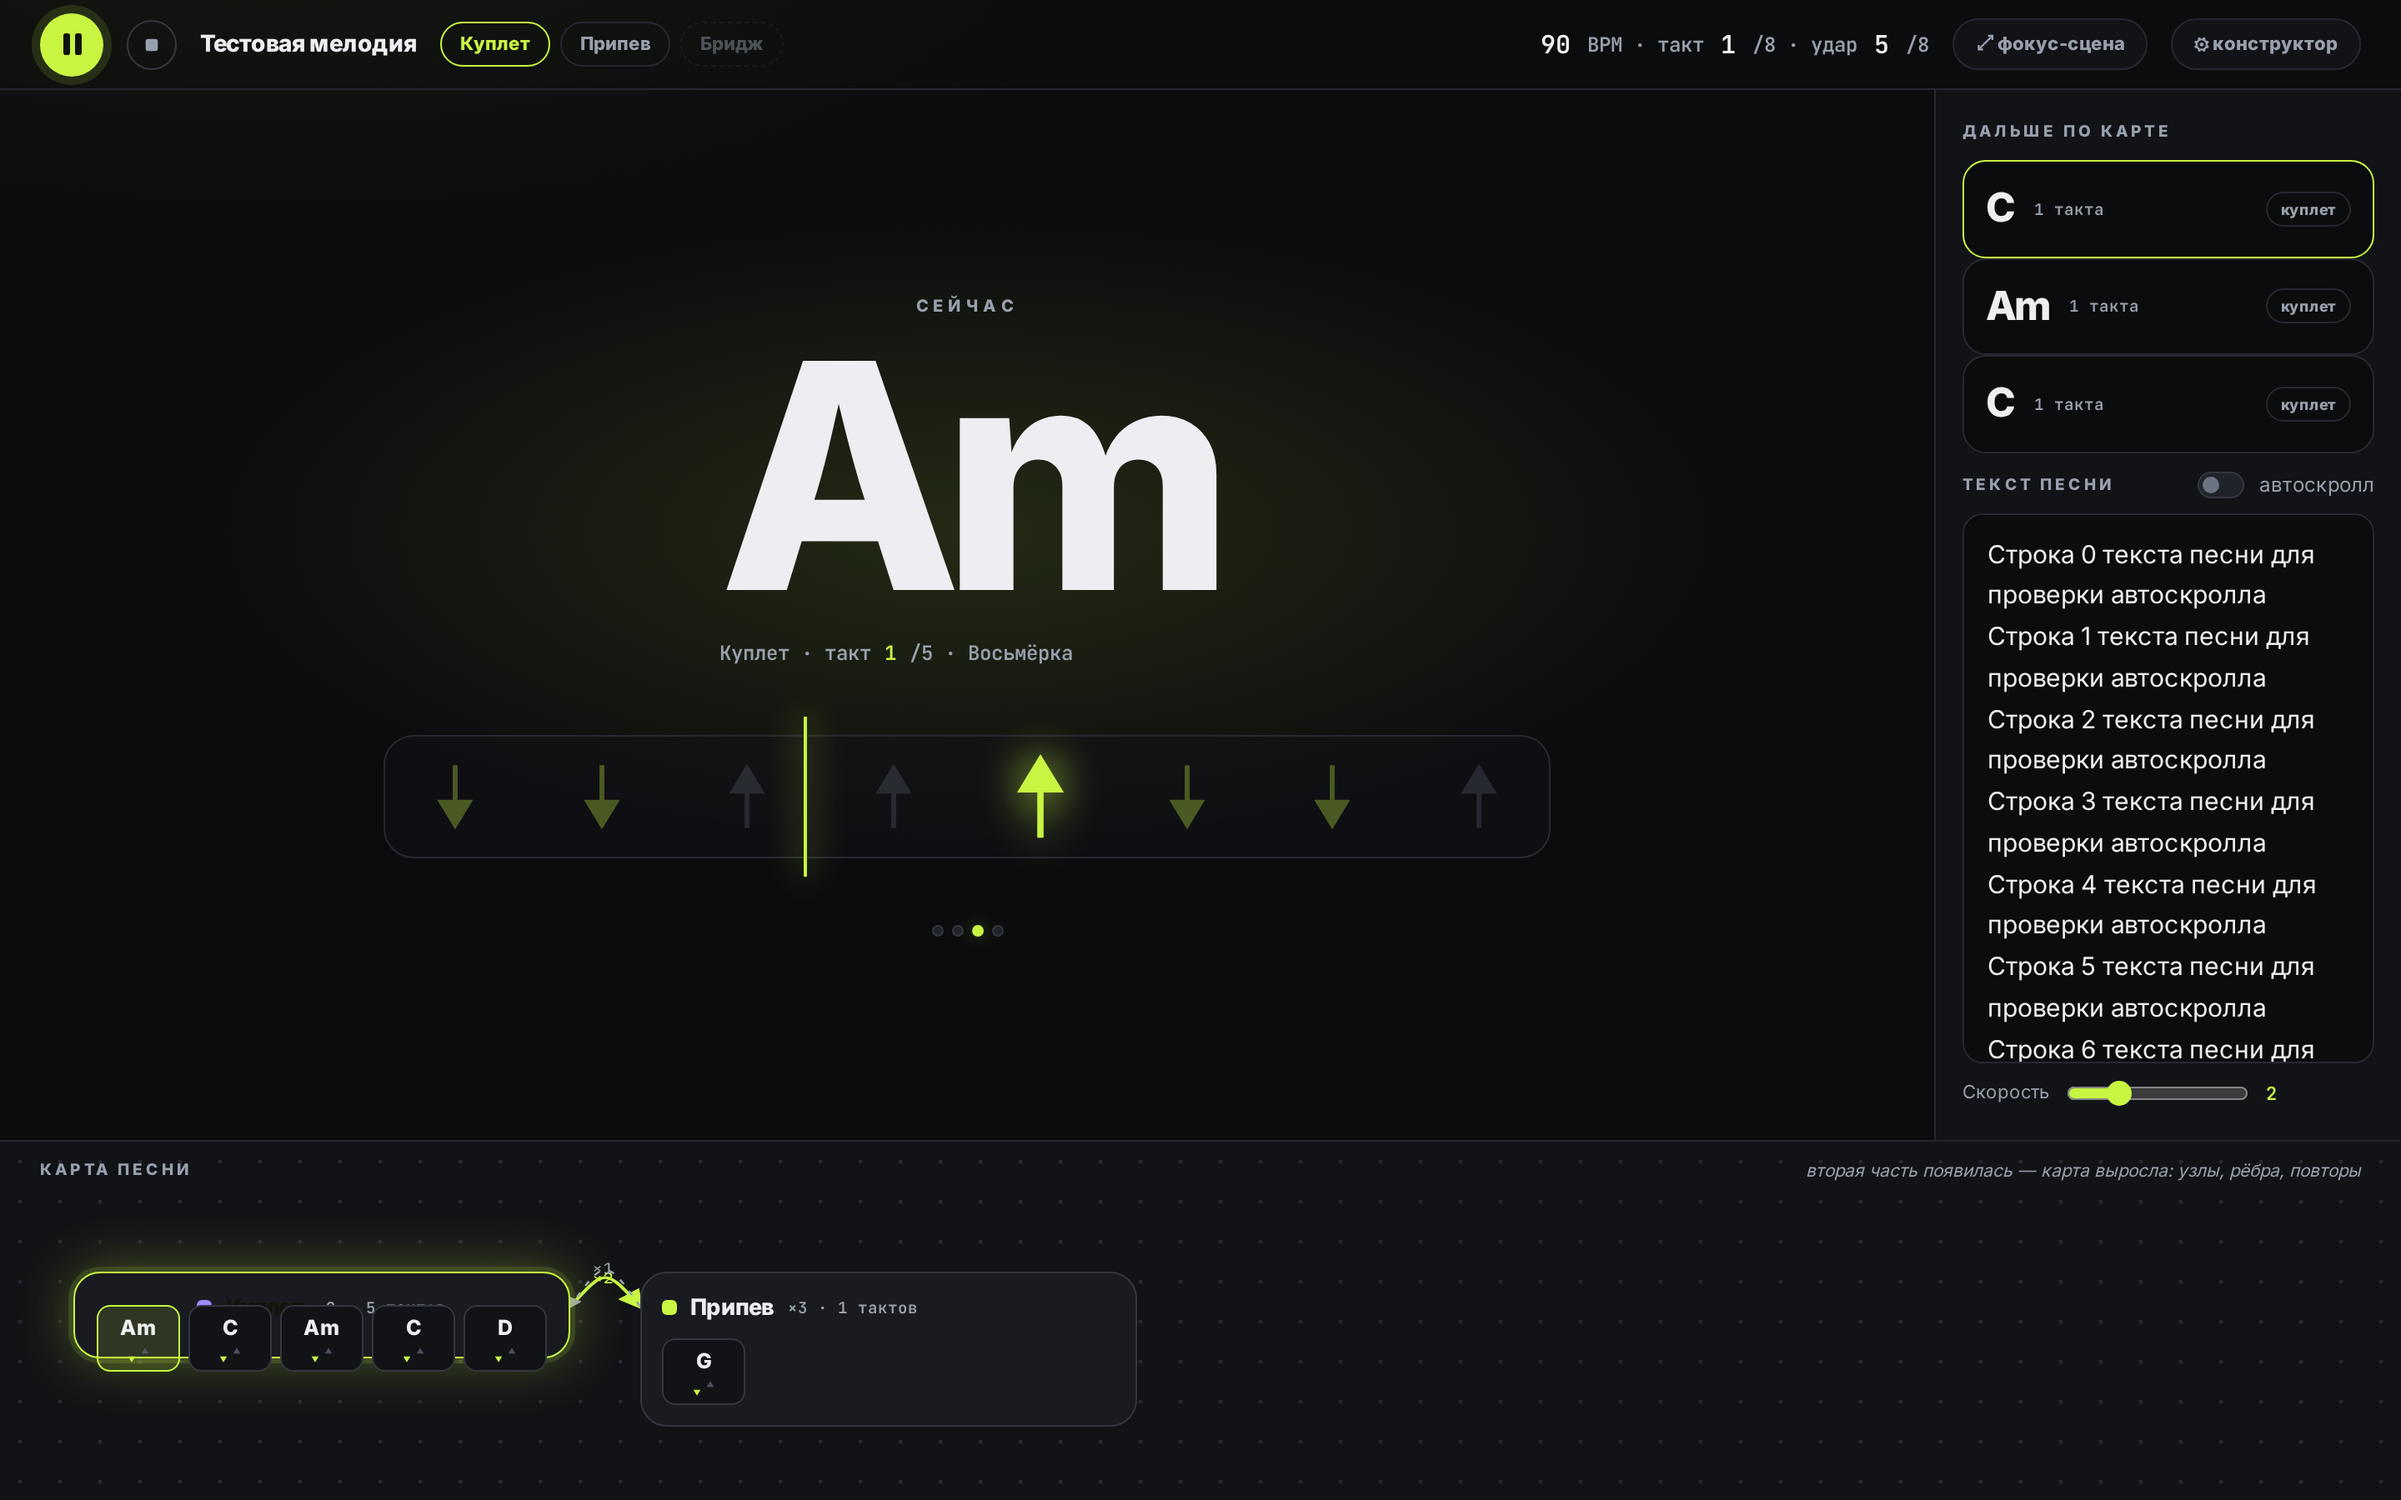
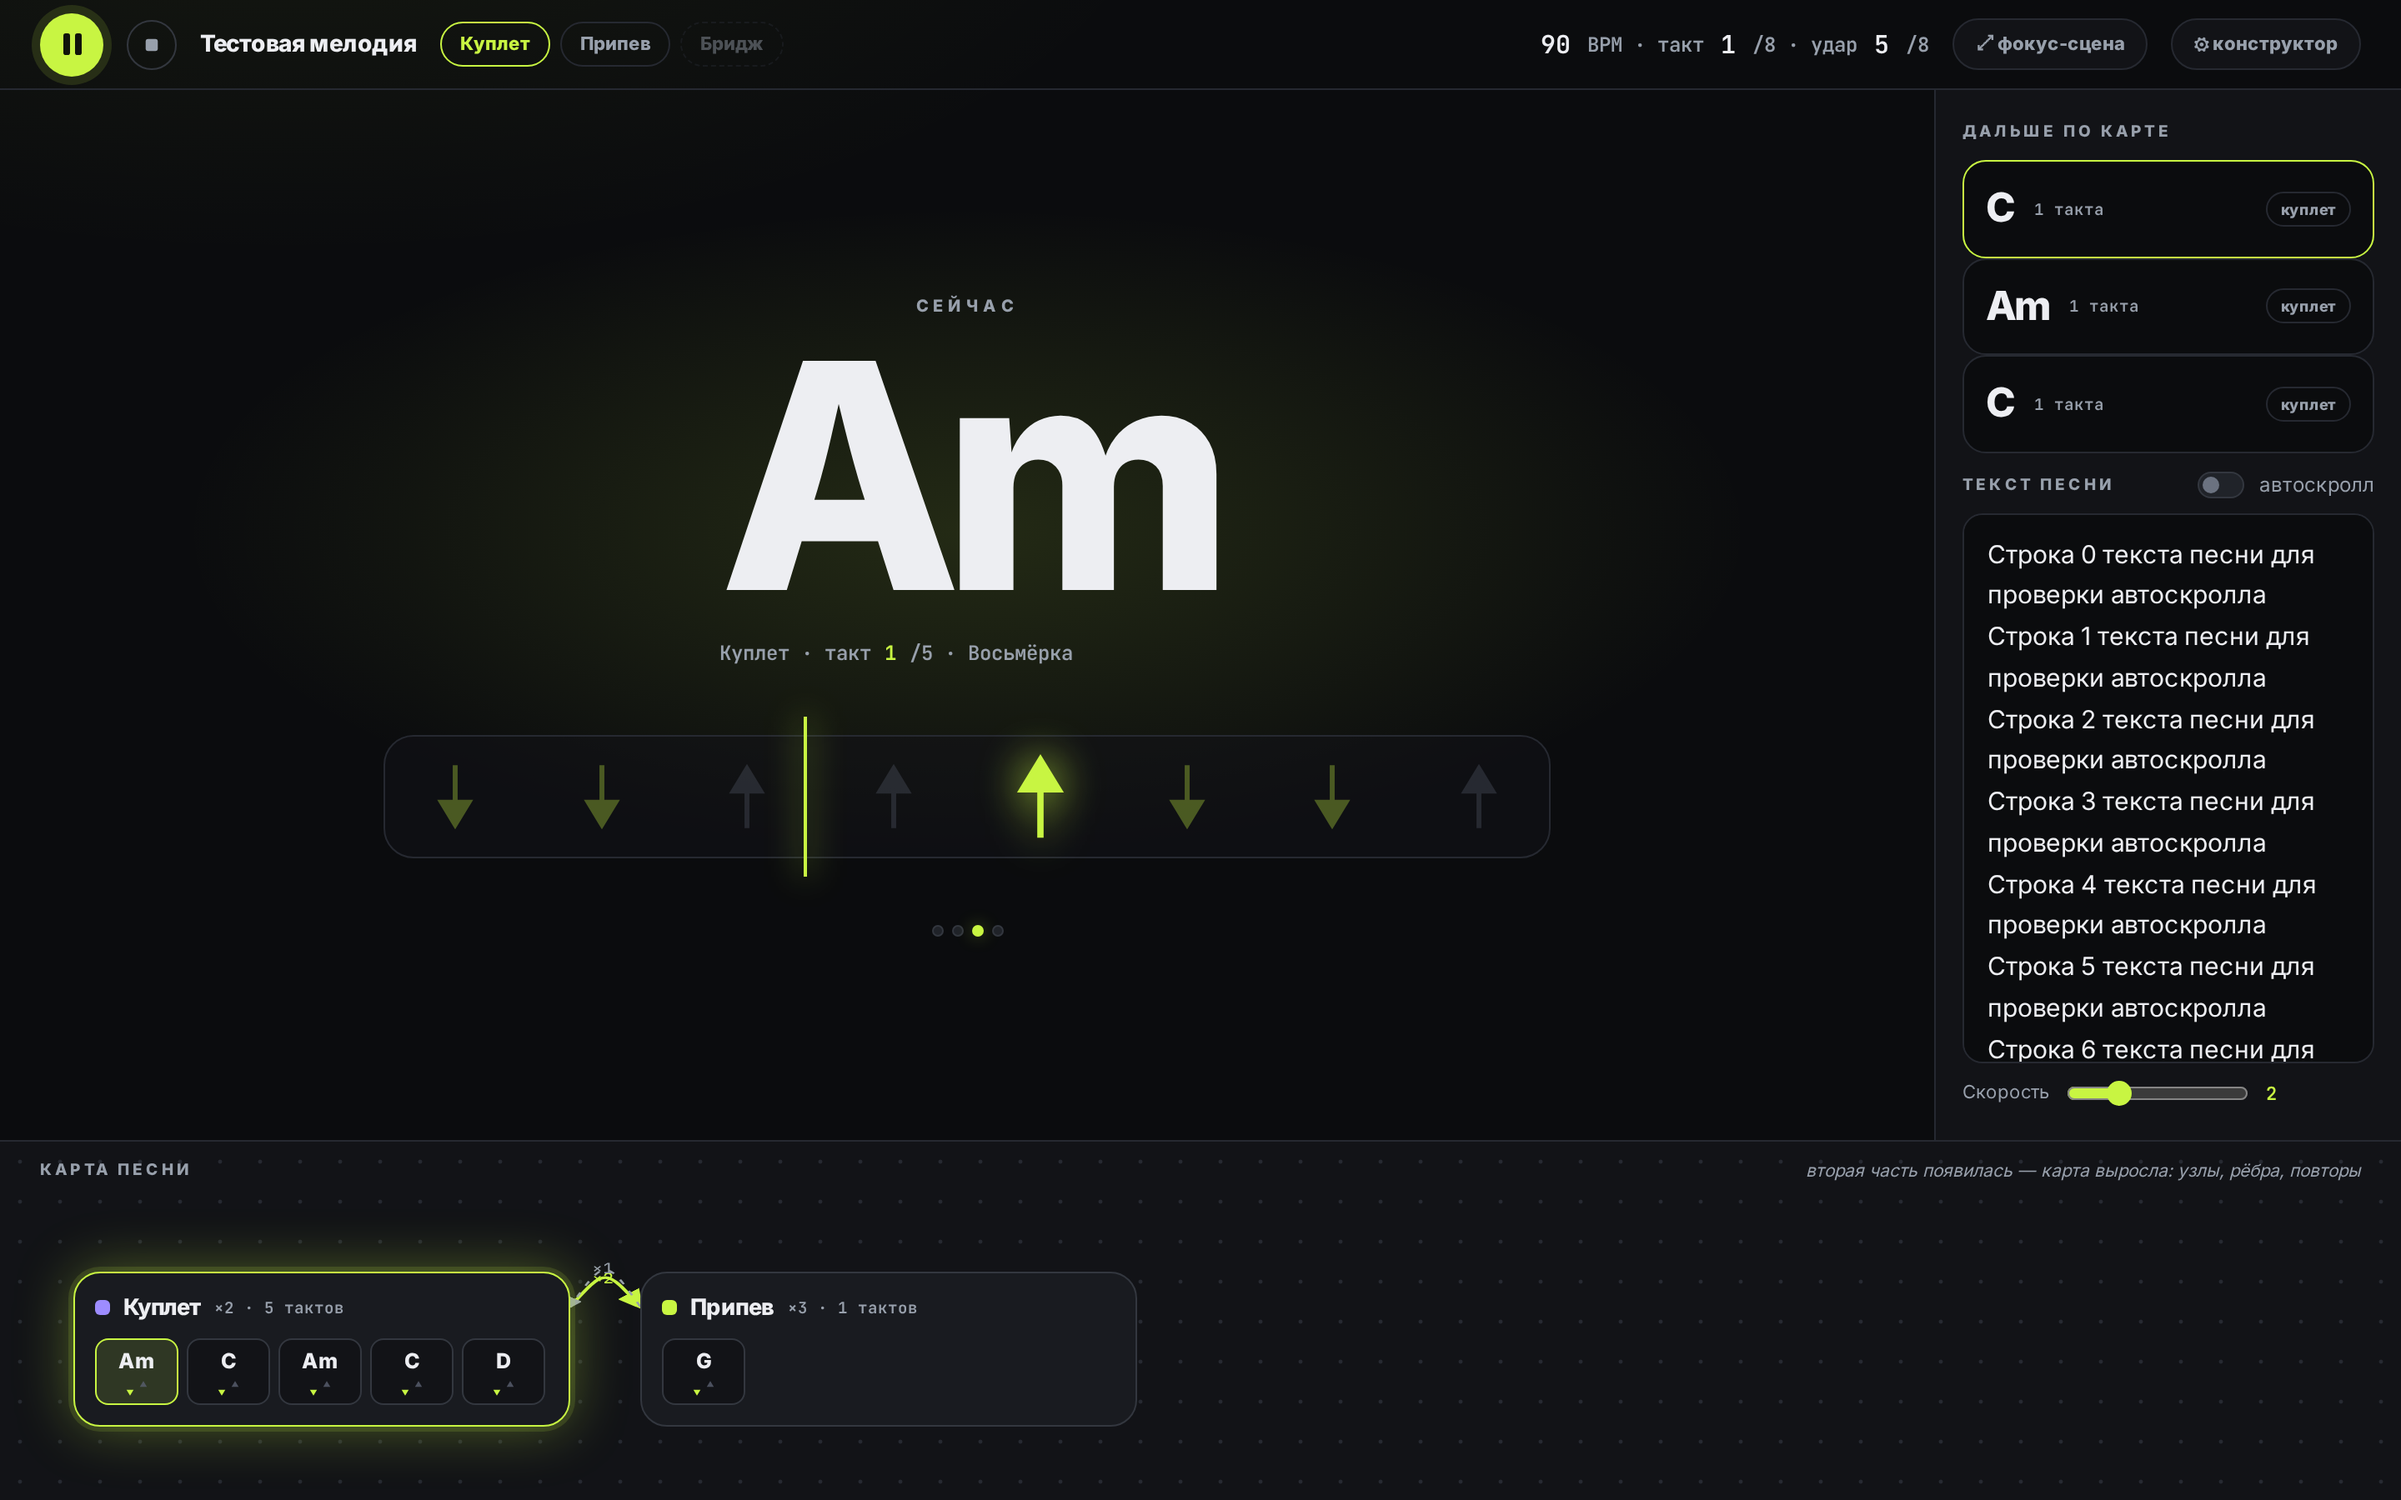
fix(stage): коллизия классов .play/.gnode.play ломала высоту узла карты — текст прятался за тактами; переименовано в .playing, узел flex-column; e2e 34/34

Changed region(s): [[0.0312, 0.8711, 0.25, 0.9644]]

diff --git a/dist/chordflow-redesign.html b/dist/chordflow-redesign.html
@@ -412,20 +412,20 @@ html[data-theme="paper"] .horizon{background-color:var(--bg)}
 .ghost{border:var(--border-w) dashed var(--line2);border-radius:14px;padding:10px 16px;color:var(--muted);font-size:12px;font-weight:700}
 .hgraph{position:absolute;inset:34px 24px 14px}
 .hgraph svg.edges{position:absolute;inset:0;width:100%;height:100%}
-.gnode{position:absolute;width:298px;background:var(--s2);border:var(--border-w) solid var(--line2);border-radius:16px;padding:11px 12px 9px}
+.gnode{position:absolute;width:298px;display:flex;flex-direction:column;gap:8px;background:var(--s2);border:var(--border-w) solid var(--line2);border-radius:16px;padding:11px 12px 9px}
 html[data-theme="paper"] .gnode{background:var(--s1);border-color:var(--line)}
-.gnode .h{display:flex;align-items:center;gap:8px}
+.gnode .h{display:flex;align-items:center;gap:8px;flex:none;position:relative;z-index:2}
 .gnode .h i{width:9px;height:9px;border-radius:3px;background:var(--sec,var(--faint))}
 .gnode .h b{font-family:var(--font-disp);font-weight:800;font-size:13.5px;letter-spacing:-.02em}
 .gnode .h .m{font:600 9.5px var(--font-mono);color:var(--muted)}
-.gnode .strip2{display:flex;gap:5px;margin-top:8px}
+.gnode .strip2{display:flex;gap:5px;margin-top:0;width:100%;flex:none;position:relative;z-index:1}
 .cb{flex:none;width:50px;border:var(--border-w) solid var(--line);border-radius:8px;background:var(--bg);padding:4px 3px 3px;text-align:center}
 html[data-theme="paper"] .cb{background:var(--s2)}
 .cb .n{font-weight:800;font-size:12.5px}
 .cb .a{display:flex;gap:1.5px;justify-content:center;height:10px;align-items:flex-end;margin-top:3px}
 .cb .a .ar{width:6px;height:12px}
 .cb.lit{border-color:var(--accent);background:var(--accent-soft)}
-.gnode.play{border-color:var(--accent);box-shadow:0 0 0 3px var(--accent-soft),0 0 34px var(--accent-ring)}
+.gnode.playing{border-color:var(--accent);box-shadow:0 0 0 3px var(--accent-soft),0 0 34px var(--accent-ring)}
 @media (max-width:900px){
   #stage-view{height:100dvh}
   .stagegrid{grid-template-columns:1fr;grid-template-rows:auto 1fr;min-height:0}
@@ -1659,7 +1659,7 @@ function renderStage(state) {
     graph.innerHTML = `<svg class="edges" viewBox="0 0 1392 216" preserveAspectRatio="none"><defs><marker id="st-a" viewBox="0 0 10 10" refX="8" refY="5" markerWidth="7" markerHeight="7" orient="auto-start-reverse"><path d="M0 0 10 5 0 10z" fill="var(--accent)"/></marker><marker id="st-m" viewBox="0 0 10 10" refX="8" refY="5" markerWidth="6" markerHeight="6" orient="auto-start-reverse"><path d="M0 0 10 5 0 10z" fill="var(--muted)"/></marker></defs>${edges}</svg>` +
       filled.map(sec => {
         const p = pos[sec.id];
-        return `<section class="gnode sec-${(state.sections.indexOf(sec) % 3) + 1} ${sec.id === state.currentSectionId ? 'play' : ''}" data-section="${sec.id}" style="left:${p.x}px;top:${p.y}px"><div class="h"><i></i><b>${sec.name}</b><span class="m">×${state.songOrder.filter(x => x === sec.id).length} · ${sec.sequence.reduce((a, b) => a + b.bars, 0)} тактов</span></div><div class="strip2" style="overflow-x:auto;max-width:100%">${sec.sequence.map((bl, bi) => `<div class="cb" data-ci="${bi}" title="${bl.chord.name}"><div class="n">${bl.chord.name}</div><div class="a">${stArrow(state.pattern.strokes[0], true)}${stArrow(state.pattern.strokes[2] || state.pattern.strokes[0], true)}</div></div>`).join('')}</div></section>`;
+        return `<section class="gnode sec-${(state.sections.indexOf(sec) % 3) + 1} ${sec.id === state.currentSectionId ? 'playing' : ''}" data-section="${sec.id}" style="left:${p.x}px;top:${p.y}px"><div class="h"><i></i><b>${sec.name}</b><span class="m">×${state.songOrder.filter(x => x === sec.id).length} · ${sec.sequence.reduce((a, b) => a + b.bars, 0)} тактов</span></div><div class="strip2" style="overflow-x:auto;max-width:100%">${sec.sequence.map((bl, bi) => `<div class="cb" data-ci="${bi}" title="${bl.chord.name}"><div class="n">${bl.chord.name}</div><div class="a">${stArrow(state.pattern.strokes[0], true)}${stArrow(state.pattern.strokes[2] || state.pattern.strokes[0], true)}</div></div>`).join('')}</div></section>`;
       }).join('');
   }
   const stLyrics = $('#st-lyrics');
@@ -1712,7 +1712,7 @@ function updateStagePlayhead(item, step) {
   document.querySelectorAll('#st-beats i').forEach((el, i) => el.classList.toggle('on', i === Math.floor((step % 8) / 2)));
   document.querySelectorAll('.gnode').forEach(node => {
     const on = node.dataset.section === item.sectionId;
-    node.classList.toggle('play', on);
+    node.classList.toggle('playing', on);
     if (on) node.querySelectorAll('.cb').forEach((c, i) => c.classList.toggle('lit', i === item.localIndex));
   });
 }

diff --git a/ui.js b/ui.js
@@ -484,7 +484,7 @@ export function renderStage(state) {
     graph.innerHTML = `<svg class="edges" viewBox="0 0 1392 216" preserveAspectRatio="none"><defs><marker id="st-a" viewBox="0 0 10 10" refX="8" refY="5" markerWidth="7" markerHeight="7" orient="auto-start-reverse"><path d="M0 0 10 5 0 10z" fill="var(--accent)"/></marker><marker id="st-m" viewBox="0 0 10 10" refX="8" refY="5" markerWidth="6" markerHeight="6" orient="auto-start-reverse"><path d="M0 0 10 5 0 10z" fill="var(--muted)"/></marker></defs>${edges}</svg>` +
       filled.map(sec => {
         const p = pos[sec.id];
-        return `<section class="gnode sec-${(state.sections.indexOf(sec) % 3) + 1} ${sec.id === state.currentSectionId ? 'play' : ''}" data-section="${sec.id}" style="left:${p.x}px;top:${p.y}px"><div class="h"><i></i><b>${sec.name}</b><span class="m">×${state.songOrder.filter(x => x === sec.id).length} · ${sec.sequence.reduce((a, b) => a + b.bars, 0)} тактов</span></div><div class="strip2" style="overflow-x:auto;max-width:100%">${sec.sequence.map((bl, bi) => `<div class="cb" data-ci="${bi}" title="${bl.chord.name}"><div class="n">${bl.chord.name}</div><div class="a">${stArrow(state.pattern.strokes[0], true)}${stArrow(state.pattern.strokes[2] || state.pattern.strokes[0], true)}</div></div>`).join('')}</div></section>`;
+        return `<section class="gnode sec-${(state.sections.indexOf(sec) % 3) + 1} ${sec.id === state.currentSectionId ? 'playing' : ''}" data-section="${sec.id}" style="left:${p.x}px;top:${p.y}px"><div class="h"><i></i><b>${sec.name}</b><span class="m">×${state.songOrder.filter(x => x === sec.id).length} · ${sec.sequence.reduce((a, b) => a + b.bars, 0)} тактов</span></div><div class="strip2" style="overflow-x:auto;max-width:100%">${sec.sequence.map((bl, bi) => `<div class="cb" data-ci="${bi}" title="${bl.chord.name}"><div class="n">${bl.chord.name}</div><div class="a">${stArrow(state.pattern.strokes[0], true)}${stArrow(state.pattern.strokes[2] || state.pattern.strokes[0], true)}</div></div>`).join('')}</div></section>`;
       }).join('');
   }
   const stLyrics = $('#st-lyrics');
@@ -537,7 +537,7 @@ export function updateStagePlayhead(item, step) {
   document.querySelectorAll('#st-beats i').forEach((el, i) => el.classList.toggle('on', i === Math.floor((step % 8) / 2)));
   document.querySelectorAll('.gnode').forEach(node => {
     const on = node.dataset.section === item.sectionId;
-    node.classList.toggle('play', on);
+    node.classList.toggle('playing', on);
     if (on) node.querySelectorAll('.cb').forEach((c, i) => c.classList.toggle('lit', i === item.localIndex));
   });
 }

diff --git a/styles.css b/styles.css
@@ -402,20 +402,20 @@ html[data-theme="paper"] .horizon{background-color:var(--bg)}
 .ghost{border:var(--border-w) dashed var(--line2);border-radius:14px;padding:10px 16px;color:var(--muted);font-size:12px;font-weight:700}
 .hgraph{position:absolute;inset:34px 24px 14px}
 .hgraph svg.edges{position:absolute;inset:0;width:100%;height:100%}
-.gnode{position:absolute;width:298px;background:var(--s2);border:var(--border-w) solid var(--line2);border-radius:16px;padding:11px 12px 9px}
+.gnode{position:absolute;width:298px;display:flex;flex-direction:column;gap:8px;background:var(--s2);border:var(--border-w) solid var(--line2);border-radius:16px;padding:11px 12px 9px}
 html[data-theme="paper"] .gnode{background:var(--s1);border-color:var(--line)}
-.gnode .h{display:flex;align-items:center;gap:8px}
+.gnode .h{display:flex;align-items:center;gap:8px;flex:none;position:relative;z-index:2}
 .gnode .h i{width:9px;height:9px;border-radius:3px;background:var(--sec,var(--faint))}
 .gnode .h b{font-family:var(--font-disp);font-weight:800;font-size:13.5px;letter-spacing:-.02em}
 .gnode .h .m{font:600 9.5px var(--font-mono);color:var(--muted)}
-.gnode .strip2{display:flex;gap:5px;margin-top:8px}
+.gnode .strip2{display:flex;gap:5px;margin-top:0;width:100%;flex:none;position:relative;z-index:1}
 .cb{flex:none;width:50px;border:var(--border-w) solid var(--line);border-radius:8px;background:var(--bg);padding:4px 3px 3px;text-align:center}
 html[data-theme="paper"] .cb{background:var(--s2)}
 .cb .n{font-weight:800;font-size:12.5px}
 .cb .a{display:flex;gap:1.5px;justify-content:center;height:10px;align-items:flex-end;margin-top:3px}
 .cb .a .ar{width:6px;height:12px}
 .cb.lit{border-color:var(--accent);background:var(--accent-soft)}
-.gnode.play{border-color:var(--accent);box-shadow:0 0 0 3px var(--accent-soft),0 0 34px var(--accent-ring)}
+.gnode.playing{border-color:var(--accent);box-shadow:0 0 0 3px var(--accent-soft),0 0 34px var(--accent-ring)}
 @media (max-width:900px){
   #stage-view{height:100dvh}
   .stagegrid{grid-template-columns:1fr;grid-template-rows:auto 1fr;min-height:0}

diff --git a/tools/e2e-full.py b/tools/e2e-full.py
@@ -138,12 +138,12 @@ try:
         rail1 = (pg.text_content('#st-next .ncard .n') or '').strip()
         pg.wait_for_timeout(3000)
         rail2 = (pg.text_content('#st-next .ncard .n') or '').strip()
-        cb_count = pg.eval_on_selector_all('.gnode.play .cb', 'e=>e.length')
+        cb_count = pg.eval_on_selector_all('.gnode.playing .cb', 'e=>e.length')
         verse_len = pg.eval_on_selector_all('.lane[data-lane="verse"] .block', 'e=>e.length')
         check("hybrid: stage lyrics mirror + autoscroll", st_lyr_len > 0 and st_scroll > 0, f"len={st_lyr_len}, scrollTop={st_scroll}")
         check("hybrid: next-rail live rebuild", rail1 != rail2, f"{rail1}->{rail2}")
         check("hybrid: node strip shows all bars", cb_count == verse_len, f"{cb_count}/{verse_len}")
-        five = pg.evaluate("""() => { const s = document.querySelector('.gnode.play .strip2'); const cb = s.querySelector('.cb');
+        five = pg.evaluate("""() => { const s = document.querySelector('.gnode.playing .strip2'); const cb = s.querySelector('.cb');
           return { cbw: cb.offsetWidth, visible: Math.floor((s.clientWidth + 5) / (cb.offsetWidth + 5)), scrollable: s.scrollWidth > s.clientWidth }; }""")
         check("hybrid: 5-tile window + scroll when longer", five["visible"] == 5 and (five["scrollable"] == (cb_count > 5)), str(five) + f" bars={cb_count}")
         pg.click('#st-stop'); pg.wait_for_timeout(300)

diff --git a/docs/TEST-REPORT.md b/docs/TEST-REPORT.md
@@ -19,7 +19,7 @@
 | pattern switch: mute available + mute arrows | ✅ PASS  |
 | bpm steppers | ✅ PASS 95/90 |
 | loop toggle flips state | ✅ PASS True->False |
-| play: transport + playhead advances | ✅ PASS Куплет · такт 1 · удар 6 -> Куплет · такт 1 · удар 8 |
+| play: transport + playhead advances | ✅ PASS Куплет · такт 1 · удар 4 -> Куплет · такт 1 · удар 6 |
 | stop resets position | ✅ PASS  |
 | background WAV render + play | ✅ PASS  |
 | lyrics autoscroll | ✅ PASS scrollTop=1313 |
